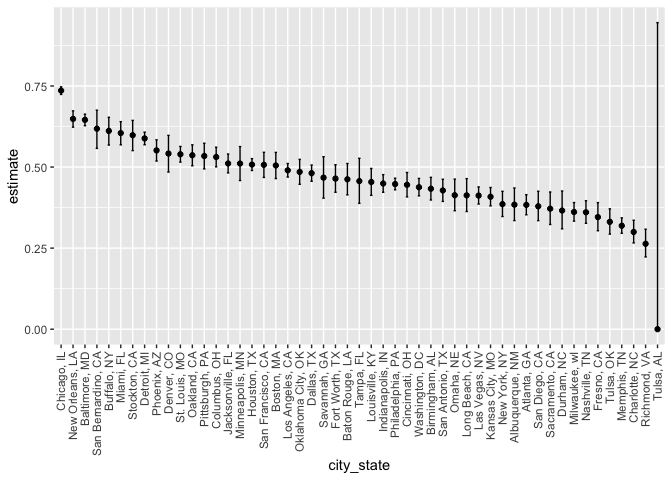
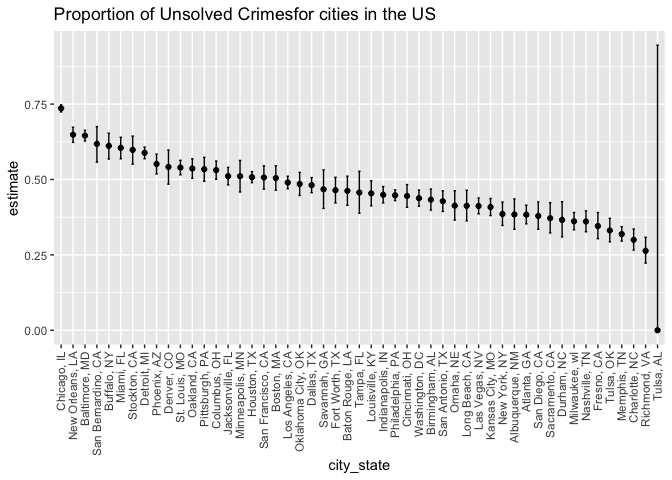
add plot title

diff --git a/p8105_hw5_jz3570.md b/p8105_hw5_jz3570.md
@@ -205,8 +205,8 @@ broom::tidy(result)%>%
     ## 1    0.646    0.628     0.663
 
 By the result above, we see that on average 64.6% of crimes of
-Baltimore,MD are not solved. The 95% Confidence Interval is \[62.8%,
-66.3%\].
+Baltimore,MD are not solved. The 95% Confidence Interval is (62.8%,
+66.3%).
 
 ``` r
 prop_test_results = function(x,n) {
@@ -235,7 +235,8 @@ sim_results_df %>%
   ggplot(aes(x = city_state, y = estimate)) + 
   geom_errorbar(aes(ymin = conf.low, ymax = conf.high), width = 0.2)+
   scale_x_discrete(guide = guide_axis(angle = 90))+
-  geom_point()
+  geom_point()+
+  labs(title = "Proportion of Unsolved Crimesfor cities in the US")
 ```
 
 ![](p8105_hw5_jz3570_files/figure-gfm/unnamed-chunk-5-1.png)<!-- -->
@@ -275,7 +276,7 @@ tp = t %>% group_by(mu) %>%
   #geom_bar(stat="identity")
   geom_line() +
   ylab("Proportion of rejection") +
-  labs(title = "Percentage of Rejection for mu")
+  labs(title = "Plot of power for mu = 1, 2, 3, 4, 5, 6")
 
 tp
 ```
